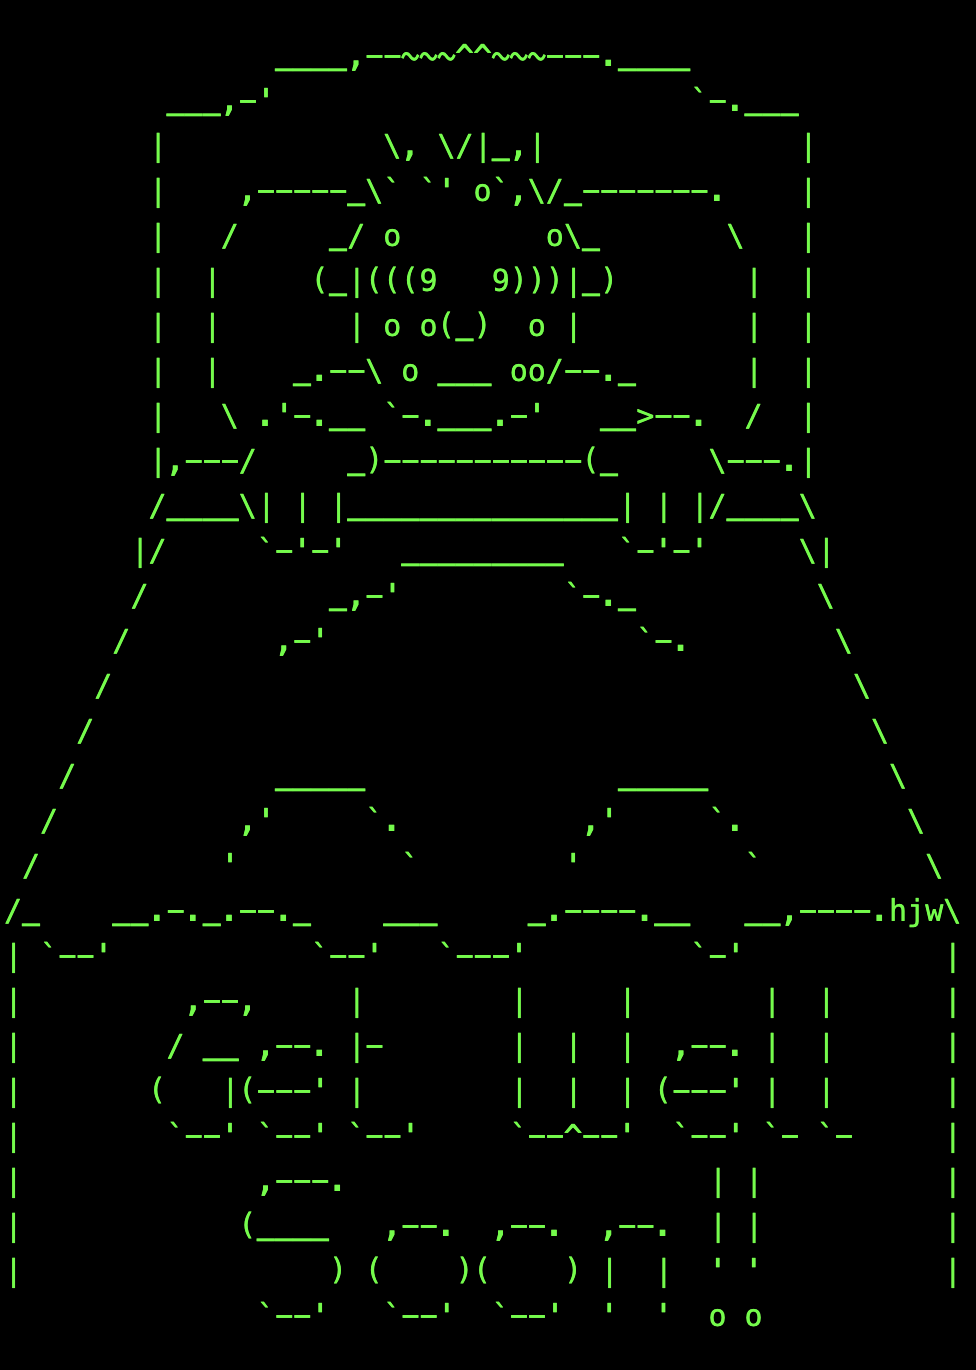
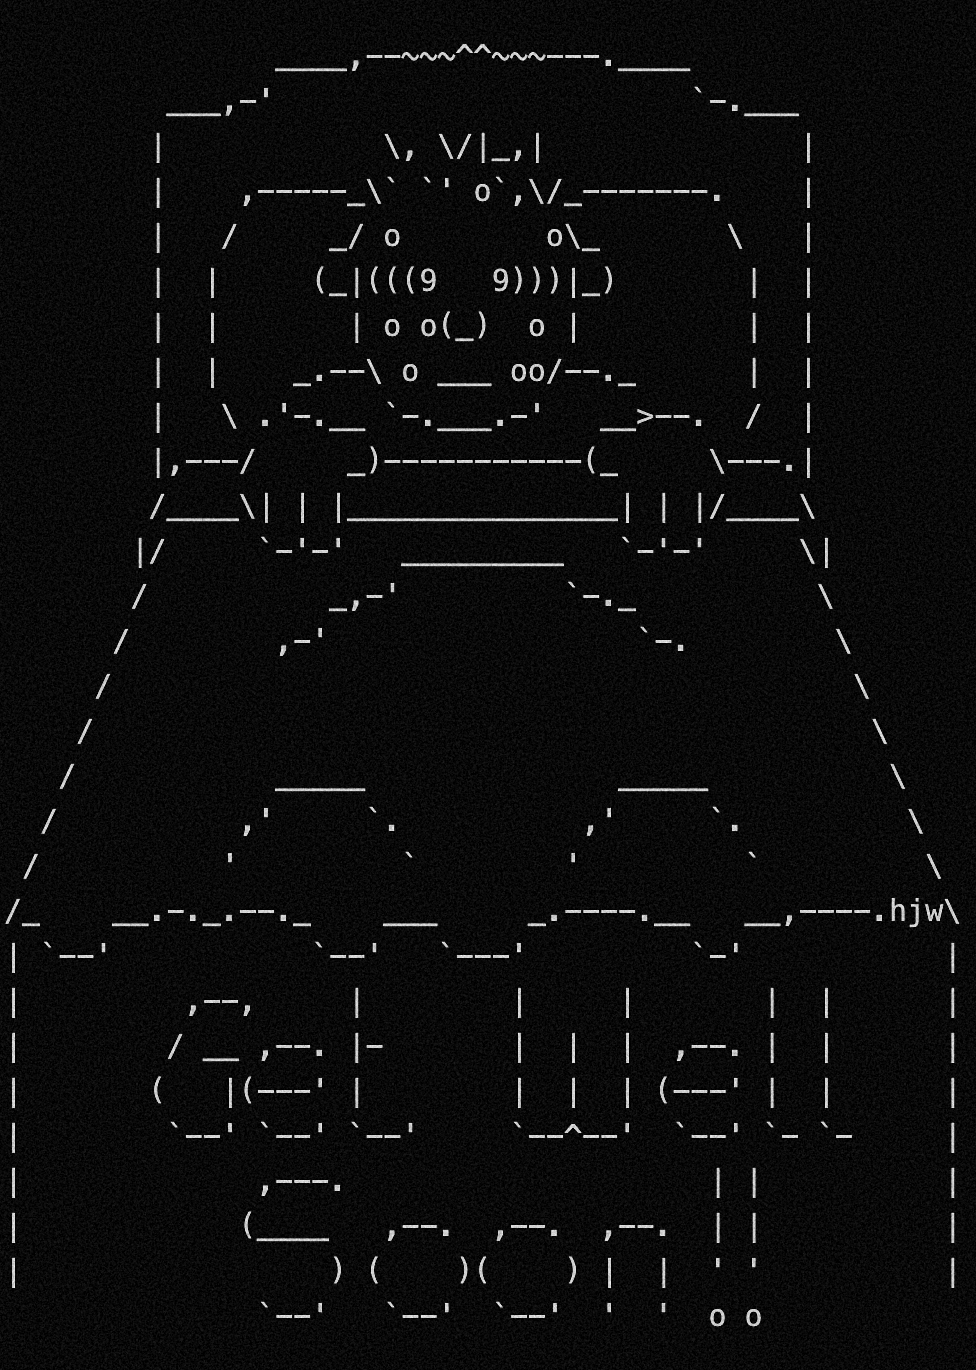
improved getwell.png effect

diff --git a/src/cassettes/ypsilon14-secretagendas/abscence-nick.tsx b/src/cassettes/ypsilon14-secretagendas/abscence-nick.tsx
@@ -26,7 +26,7 @@ const Agenda = (props: IAgendaProps) => {
       <P>Your PTO balance and pay have been docked correspondingly.</P>
       <Line>Warden</Line>
       <P>{props.companyEmailDomain}&copy; Human Resources</P>
-      <Bitmap src={getwell.src} style="color-dodge" />
+      <Bitmap src={getwell.src} style="luminosity" />
     </Screen>
   );
 };
